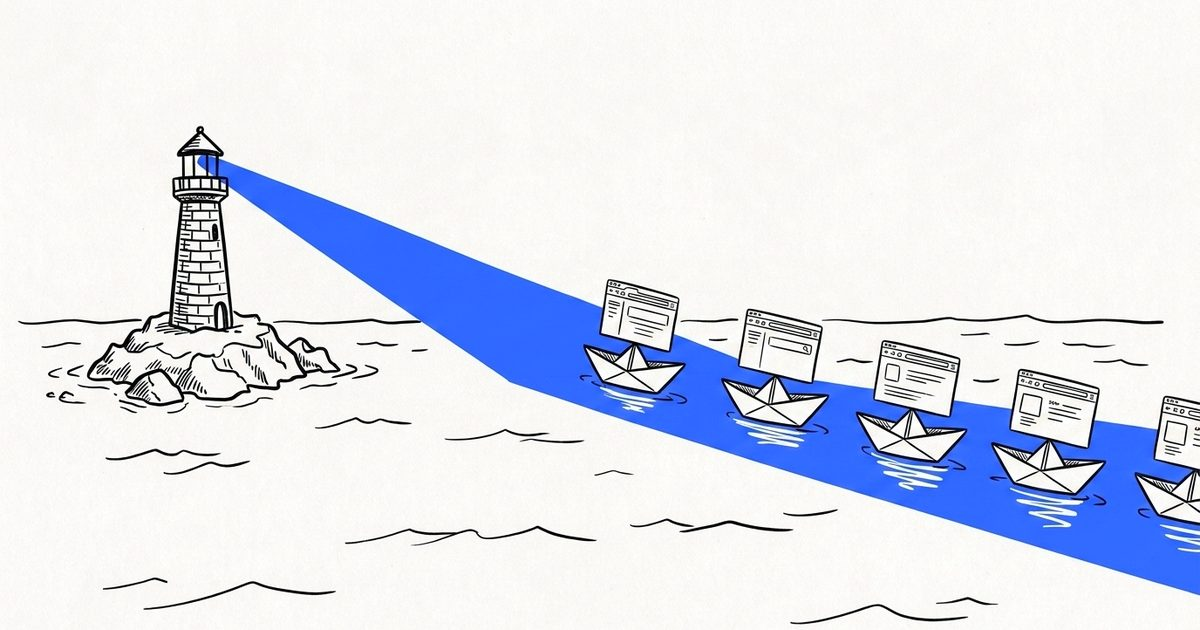
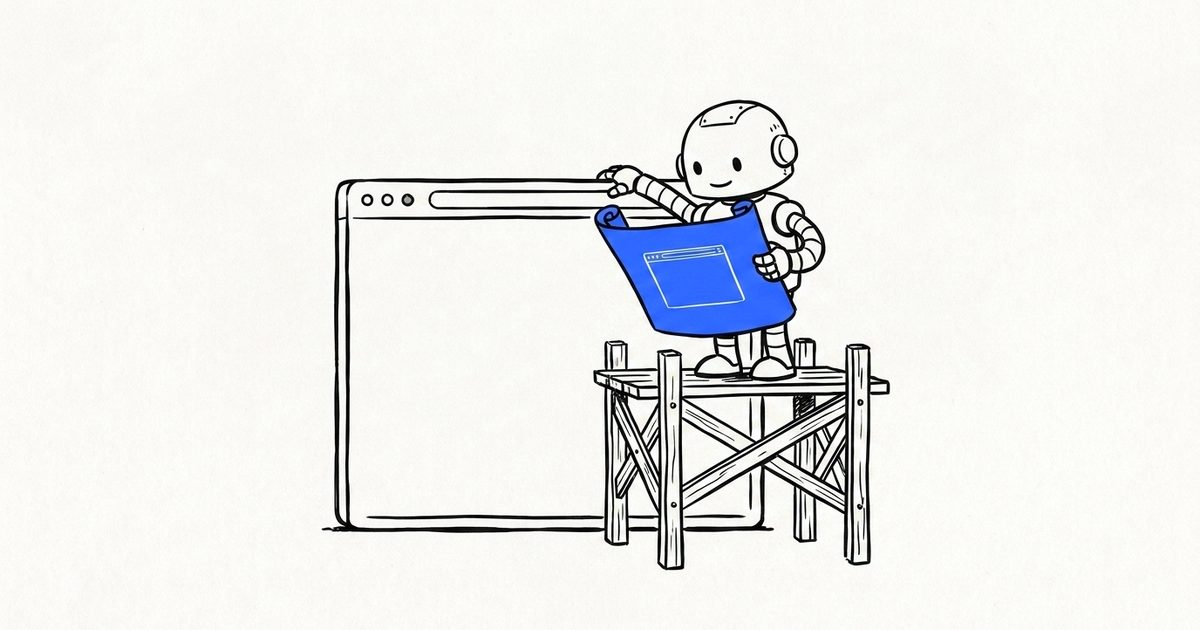
feat: the flagship title names the slop, and a robot reads the blueprint
The interfaces article drops its generic how-I title for the claim it
actually makes, the spec article's cross-links follow, and the cover
trades the lighthouse for a robot builder checking a blue blueprint
against the browser window it is assembling.

diff --git a/content/writing/every-iteration-gets-a-spec.md b/content/writing/every-iteration-gets-a-spec.md
@@ -10,7 +10,7 @@ order: 2
 
 For a while my specs lived in a folder called specs. Every feature added a Markdown file, every file was written for the moment it served, and the folder grew in whatever order the work happened. Soon it could not answer a single useful question. Which of these decisions still stand? Which version of the strategy does this file describe? What was tried and abandoned? I could not read the history out of it, and my agents could not either: every new session started from a blank slate inside a repository that had already learned the answers.
 
-Vibe coding made this worse, because the volume went up. More ideas get tried in a week than a folder of loose files can hold. So the folder became a system: versioned specs with their own implementation history, and a pair of skills that write and review them. It is the base layer under everything I build with agents, including the interface pipeline in [How I build interfaces with coding agents](/writing/interfaces-with-coding-agents).
+Vibe coding made this worse, because the volume went up. More ideas get tried in a week than a folder of loose files can hold. So the folder became a system: versioned specs with their own implementation history, and a pair of skills that write and review them. It is the base layer under everything I build with agents, including the interface pipeline in [Agent-built interfaces drift into slop. Here is how I stop it.](/writing/interfaces-with-coding-agents)
 
 ## The spec is what the agent actually builds
 
@@ -73,4 +73,4 @@ What I get: context that compounds across sessions, models, and months.
 
 The two skills that run this system are published in [github.com/abalyasnikov/dev-history-skills](https://github.com/abalyasnikov/dev-history-skills): write-dev-history-spec and review-dev-history-spec. MIT, no runtime dependencies, installed by symlink for Claude Code and Codex. The writer investigates and proposes scope before touching a file; the reviewer never edits and ends with one verdict. Both read your repository's own conventions first and fall back to their structure only where none exists.
 
-Where this sits in the larger picture is the interface pipeline: [How I build interfaces with coding agents](/writing/interfaces-with-coding-agents).
+Where this sits in the larger picture is the interface pipeline: [Agent-built interfaces drift into slop. Here is how I stop it.](/writing/interfaces-with-coding-agents)

diff --git a/content/writing/interfaces-with-coding-agents.md b/content/writing/interfaces-with-coding-agents.md
@@ -1,12 +1,12 @@
 ---
-title: How I build interfaces with coding agents
+title: "Agent-built interfaces drift into slop. Here is how I stop it."
 description: "The anchors that keep agent-built interfaces consistent: global principles, a versioned spec, a design system, and review at every stage."
 status: published
 date: 2026-08-12
 order: 1
 ---
 
-![A lighthouse beam guiding a line of paper boats with browser-window sails](/og/interfaces-with-coding-agents.jpg)
+![A robot builder on scaffolding checks a blue blueprint while assembling a browser window](/og/interfaces-with-coding-agents.jpg)
 
 The first version an agent hands back almost always looks fine. Scroll for a minute and it stops looking fine: three grays that are nearly the same, two corner radii on one screen, a button that invented its own padding, a heading set at 15px because nothing said it could not be. Nothing fails the build, and the whole page still reads as slop.
 
